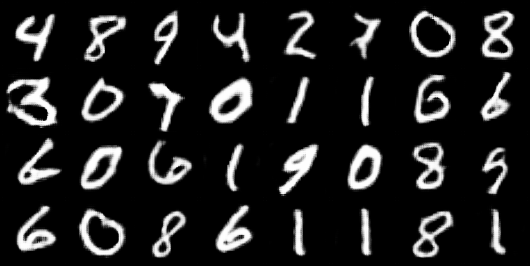
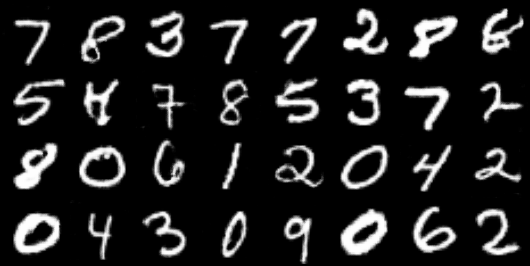
refactoring and condgan training

diff --git a/gans/WGAN-GP/generator_model.py b/gans/WGAN-GP/generator_model.py
@@ -8,18 +8,18 @@ class Generator(nn.Module):
     super(Generator, self).__init__()
 
     self.generator = nn.Sequential(
-      # upscale_block(noise_dim,         features_gen * 32, (4, 4), (2, 2), (0, 0)),
-      # upscale_block(features_gen * 32, features_gen * 16, (4, 4), (2, 2), (1, 1)),
-      # upscale_block(features_gen * 16, features_gen * 8,  (4, 4), (2, 2), (1, 1)),
-      # upscale_block(features_gen * 8,  features_gen * 4,  (4, 4), (2, 2), (1, 1)),
+      # upscale_block(noise_dim,         features_gen * 16, (4, 4), (2, 2), (0, 0)),
+      # upscale_block(features_gen * 16, features_gen * 8, (4, 4), (2, 2), (1, 1)),
+      # upscale_block(features_gen * 8, features_gen * 4,  (4, 4), (2, 2), (1, 1)),
       # upscale_block(features_gen * 4,  features_gen * 2,  (4, 4), (2, 2), (1, 1)),
+      # upscale_block(features_gen * 2,  features_gen * 1,  (4, 4), (2, 2), (1, 1)),
 
-      upscale_block(noise_dim, features_gen * 16, (4, 4), (2, 2), (0, 0)),
-      upscale_block(features_gen * 16, features_gen * 8,  (4, 4), (2, 2), (1, 1)),
-      upscale_block(features_gen * 8,  features_gen * 4,  (4, 4), (2, 2), (1, 1)),
+      upscale_block(noise_dim, features_gen * 8, (4, 4), (2, 2), (0, 0)),
+      upscale_block(features_gen * 8, features_gen * 4,  (4, 4), (2, 2), (1, 1)),
       upscale_block(features_gen * 4,  features_gen * 2,  (4, 4), (2, 2), (1, 1)),
+      upscale_block(features_gen * 2,  features_gen * 1,  (4, 4), (2, 2), (1, 1)),
 
-      nn.ConvTranspose2d(features_gen * 2, image_channels, (4, 4), (2, 2), (1, 1)),
+      nn.ConvTranspose2d(features_gen * 1, image_channels, (4, 4), (2, 2), (1, 1)),
       nn.Tanh()
     )
 

diff --git a/gans/Conditional_GAN/generator_model.py b/gans/Conditional_GAN/generator_model.py
@@ -11,16 +11,16 @@ class Generator(nn.Module):
     self.img_size = img_size
 
     self.generator = nn.Sequential(
-      upscale_block(noise_dim + embed_size, features_gen * 16, (4, 4), (2, 2), (0, 0)),
-      upscale_block(features_gen * 16, features_gen * 8,  (4, 4), (2, 2), (1, 1)),
-      upscale_block(features_gen * 8,  features_gen * 4,  (4, 4), (2, 2), (1, 1)),
+      upscale_block(noise_dim + embed_size, features_gen * 8, (4, 4), (2, 2), (0, 0)),
+      upscale_block(features_gen * 8, features_gen * 4,  (4, 4), (2, 2), (1, 1)),
       upscale_block(features_gen * 4,  features_gen * 2,  (4, 4), (2, 2), (1, 1)),
+      upscale_block(features_gen * 2,  features_gen * 1,  (4, 4), (2, 2), (1, 1)),
 
       # nn.Conv2d(features_gen * 2, features_gen * 2, kernel_size=(3, 3), stride=(1, 1), padding=(1, 1), bias=False),
       # nn.InstanceNorm2d(features_gen * 2, affine=True),
       # nn.ReLU(),
 
-      nn.ConvTranspose2d(features_gen * 2, image_channels, (4, 4), (2, 2), (1, 1)),
+      nn.ConvTranspose2d(features_gen * 1, image_channels, (4, 4), (2, 2), (1, 1)),
       nn.Tanh()
     )
 

diff --git a/gans/Conditional_GAN/train.py b/gans/Conditional_GAN/train.py
@@ -70,7 +70,7 @@ def train_step(real, labels, crit, gen, optimizer_crit, optimizer_gen, step):
 
 def train():
   dataset = datasets.MNIST(root="datasets/mnist", train=True, transform=transform, download=True)
-  loader = DataLoader(dataset, batch_size=BATCH_SIZE, shuffle=True, num_workers=4, persistent_workers=True, pin_memory=True)
+  loader = DataLoader(dataset, batch_size=BATCH_SIZE, shuffle=True, num_workers=NUM_OF_WORKERS, persistent_workers=True, pin_memory=True)
 
   gen = Generator(NOISE_DIM, IMG_CH, FEATURES_GEN, NUM_OF_CLASSES, IMG_SIZE, EMBED_SIZE).to(device)
   crit = Critic(IMG_CH, FEATURES_CRIT, NUM_OF_CLASSES, IMG_SIZE).to(device)
@@ -152,10 +152,10 @@ def train():
 
           bar.update()
           iteration += 1
-          if iteration >= ITERATIONS:
+          if iteration > ITERATIONS:
             break
 
-        if iteration >= ITERATIONS:
+        if iteration > ITERATIONS:
           break
 
         save_model(gen, optimizer_gen, f"models/{MODEL_NAME}/gen.mod")

diff --git a/gans/Conditional_GAN/settings.py b/gans/Conditional_GAN/settings.py
@@ -8,20 +8,23 @@ NUM_OF_CLASSES = 10
 NOISE_DIM = 128
 EMBED_SIZE = 128
 
-ITERATIONS = 1_000_000
-FEATURES_CRIT = FEATURES_GEN = 64
+ITERATIONS = 200_000
+FEATURES_CRIT = 64
+FEATURES_GEN = 128
 CRITIC_ITERATIONS = 5
 LAMBDA_GRAD_PENALTY = 10
 
-SAVE_CHECKPOINT = False
-CHECKPOINT_EVERY = 10_000
+SAVE_CHECKPOINT = True
+CHECKPOINT_EVERY = 5_000
 
 SAMPLE_EVERY = 1_000
 
-MODEL_NAME = "mnist_cond-gan_upgraded_model"
+MODEL_NAME = "mnist_cond-gan_model"
 NUMBER_OF_SAMPLE_IMAGES = 32
 
 GEN_MODEL_WEIGHTS_TO_LOAD = None
 CRITIC_MODEL_WEIGHTS_TO_LOAD = None
 
 device = torch.device("cuda" if torch.cuda.is_available() else "cpu")
+
+NUM_OF_WORKERS = 4

diff --git a/gans/WGAN-GP/train.py b/gans/WGAN-GP/train.py
@@ -161,10 +161,10 @@ def train():
 
           bar.update()
           iteration += 1
-          if iteration >= ITERATIONS:
+          if iteration > ITERATIONS:
             break
 
-        if iteration >= ITERATIONS:
+        if iteration > ITERATIONS:
           break
 
         save_model(gen, optimizer_gen, f"models/{MODEL_NAME}/gen.mod")

diff --git a/gans/WGAN-GP/settings.py b/gans/WGAN-GP/settings.py
@@ -7,7 +7,8 @@ IMG_CH = 3
 NOISE_DIM = 128
 
 ITERATIONS = 3_000_000
-FEATURES_CRIT = FEATURES_GEN = 64
+FEATURES_CRIT = 64
+FEATURES_GEN = 128
 CRITIC_ITERATIONS = 5
 LAMBDA_GRAD_PENALTY = 10
 

diff --git a/README.md b/README.md
@@ -96,17 +96,11 @@ More stable training in comparison to DCGAN but slower to train
    ![6](media/faces_wgan-gp_fake1.png?raw=true)
 
 ### Conditional GAN - Based on WGAN-GP
-1. Mnist dataset (64x64 grayscale) - batch size 64 - TODO: Revisit
-   1. Original model
-      1. Generated - 20 epochs \
-      ![7](media/mnist_cond-gan_fake.png?raw=true)
-      2. Real \
-      ![8](media/mnist_cond-gan_real.png?raw=true)
-   2. Larger model
-      1. Generated - 20 epochs \
-      ![9](media/mnist_cond-gan_fake2.png?raw=true)
-      2. Real \
-      ![10](media/mnist_cond-gan_real2.png?raw=true)
+1. Mnist dataset (64x64 grayscale) - batch size 64
+   1. Generated - 200k iters \
+   ![7](media/mnist_cond-gan_fake.png?raw=true)
+   2. Real \
+   ![8](media/mnist_cond-gan_real.png?raw=true)
 
 ### Pix2Pix using GAN
 1. Maps segmentation (256x256 color, 2000 images) - batch size 16, 200 epochs \
